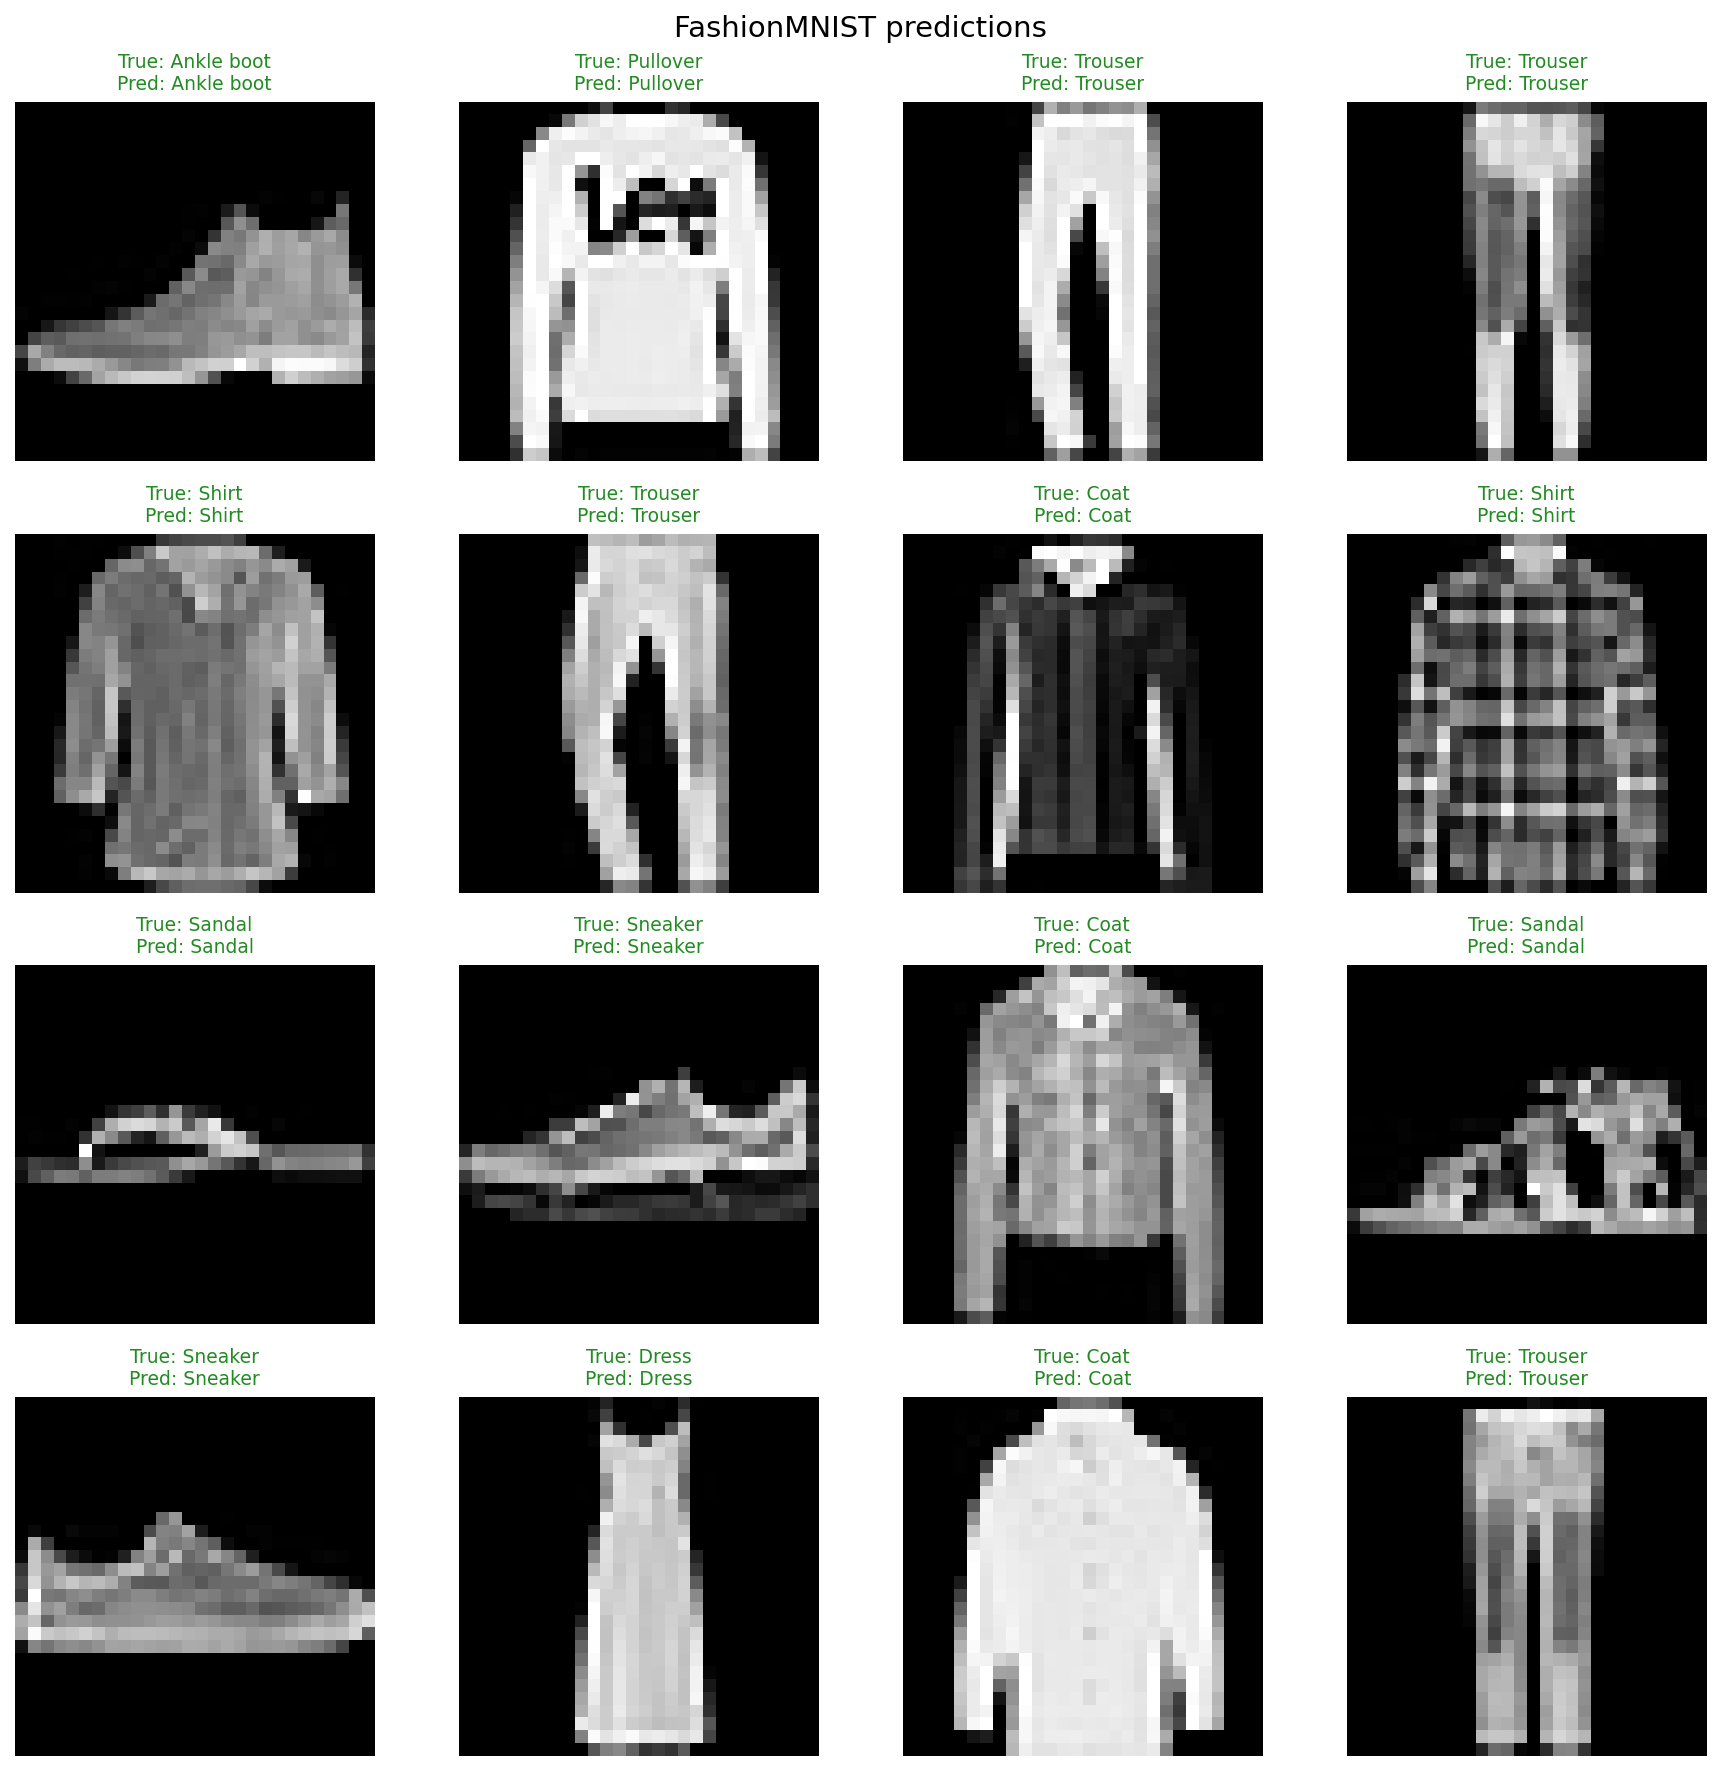
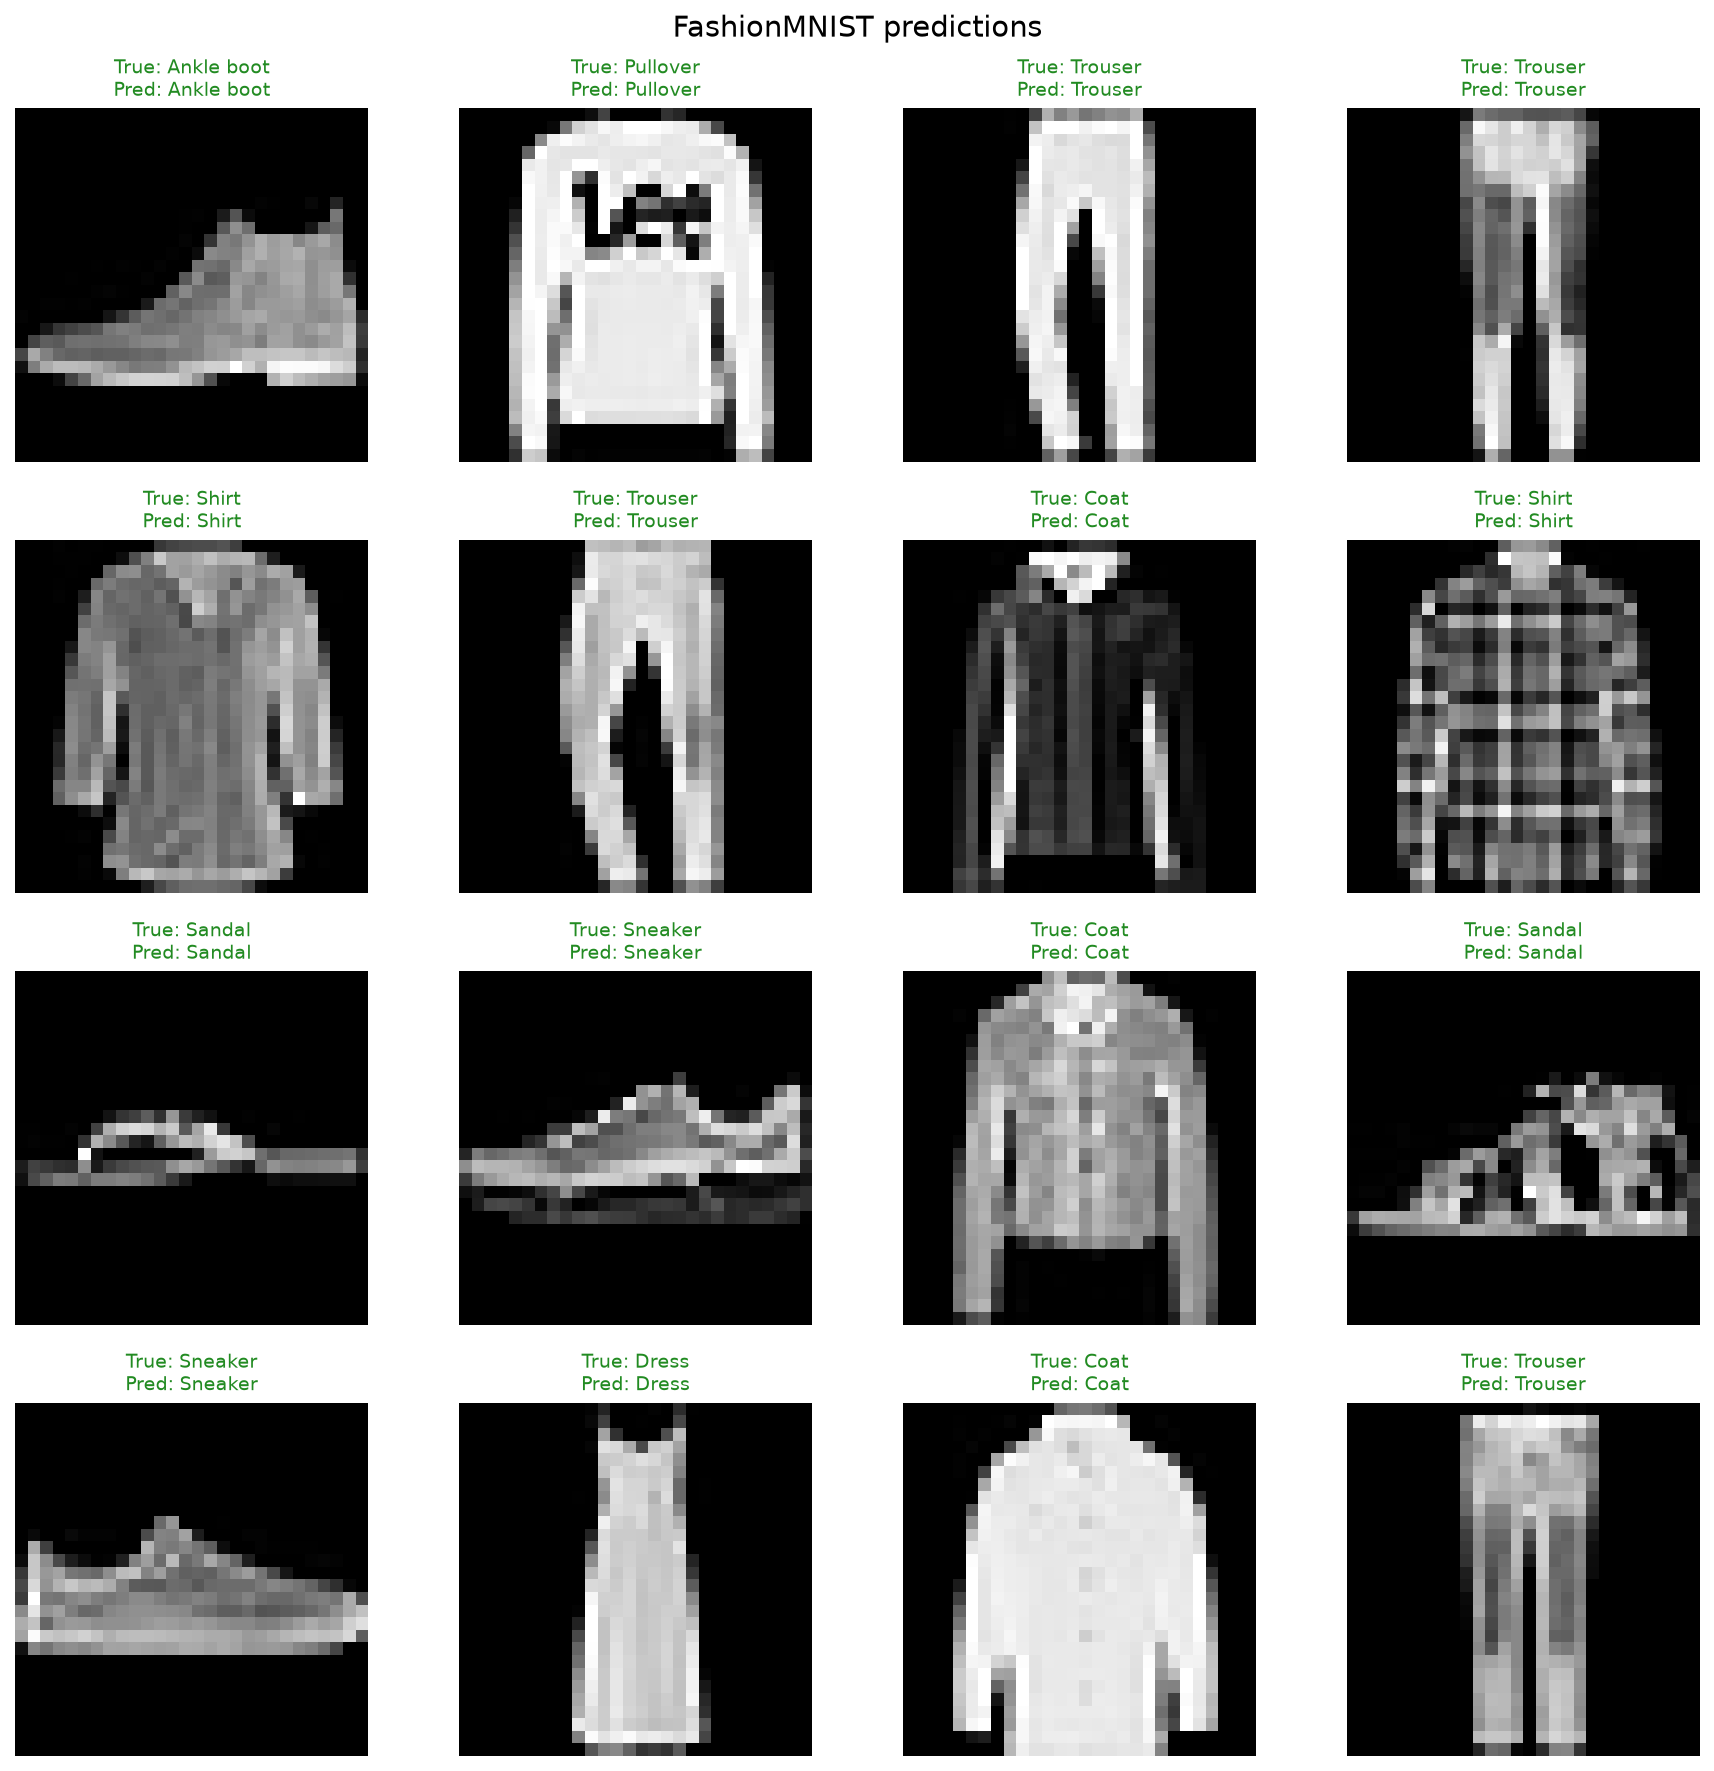
Add files via upload

diff --git a/results/reports/practice1_report.md b/results/reports/practice1_report.md
@@ -1,0 +1,60 @@
+# Báo cáo ngắn – Practice 1: PyTorch FashionMNIST Classification
+
+Thời gian thực hiện: 03/11/2026 – 11/11/2026. Mã nguồn và dữ liệu kết quả nằm trong repository `Practice_1`.
+
+## 1. Mục tiêu
+Xây dựng, huấn luyện và đánh giá mô hình mạng nơ-ron bằng PyTorch để phân loại ảnh FashionMNIST thành 10 lớp, theo bốn phần của đề bài: Learn (tìm hiểu), Implement (cài đặt), Tasks (thử nghiệm và trực quan hóa), Deliver (sản phẩm).
+
+## 2. Dữ liệu và tiền xử lý
+FashionMNIST có 60.000 ảnh train và 10.000 ảnh test, ảnh xám 28 × 28, 10 lớp cân bằng. Ảnh được đổi sang tensor (`ToTensor`) rồi chuẩn hóa về [-1, 1] (`Normalize((0.5,), (0.5,))`); train và test dùng cùng phép biến đổi. Khi tinh chỉnh hyperparameters, 10% tập train (6.000 ảnh) được tách làm validation; tập test chỉ dùng để đánh giá cuối.
+
+## 3. Mô hình và huấn luyện
+
+| Mô hình | Cấu trúc | Tham số |
+|---|---|---|
+| MLP | Flatten → Linear 256 → Linear 128 → Linear 10 (ReLU) | 235.146 |
+| CNN | 2 × (Conv 3×3 + ReLU + MaxPool) → Linear 128 → Dropout → Linear 10 | 421.642 |
+| DeepCNN | 3 × (Conv 3×3 + ReLU + MaxPool) → Linear 128 → Dropout → Linear 10 | 241.546 |
+
+Huấn luyện bằng `CrossEntropyLoss` trên logits, optimizer Adam (learning rate 1e-3), batch size 64, seed 42, trên CPU. Mỗi batch: Forward → Loss → Backward → Optimize. Mô hình được lưu bằng `state_dict` và tải lại bằng `weights_only=True`; accuracy sau khi tải khớp với trước khi lưu.
+
+## 4. Kết quả
+
+**Mô hình chính** (CNN, 10 epoch, notebook 02): accuracy test **91,93%**, test loss 0,2524, train accuracy 95,60%. Test loss thấp nhất ở epoch 7 rồi tăng nhẹ, cho thấy overfitting bắt đầu từ khoảng epoch 7.
+
+**So sánh kiến trúc** (5 epoch, cùng điều kiện):
+
+| Mô hình | Test accuracy | Test loss | Thời gian |
+|---|---|---|---|
+| MLP | 87,90% | 0,3421 | 36 giây |
+| CNN | 91,00% | 0,2440 | 181 giây |
+| DeepCNN | 90,83% | 0,2470 | 230 giây |
+
+**Tinh chỉnh hyperparameters** (11 cấu hình, chọn theo validation accuracy):
+
+| Yếu tố | Giá trị thử → validation accuracy |
+|---|---|
+| Learning rate | 3e-4: 89,32%; 1e-3: 90,58%; 3e-3: 90,65% |
+| Batch size | 32: 90,58%; 64: 90,58%; 128: 90,18% |
+| Số epoch | 1: 87,87%; 3: 90,58%; 6: 91,60% |
+| Optimizer | Adam: 90,58%; SGD momentum: 89,75% |
+| Dropout | 0: 90,95%; 0,20: 90,83%; 0,25: 90,58%; 0,50: 90,03% |
+
+Cấu hình tốt nhất theo validation là CNN, Adam, lr 1e-3, batch 64, 6 epoch: **90,93% accuracy test** khi đánh giá một lần.
+
+**Theo lớp:** Trouser, Bag, Sandal gần như hoàn hảo (F1 > 0,98); Shirt khó nhất (F1 0,7605), thường bị nhầm với T-shirt/top, Pullover và Coat.
+
+## 5. Hình và bảng
+- Biểu đồ loss: `results/figures/training_history_real.png`, `results/figures/tune-*_history.png`.
+- Ảnh dự đoán so với nhãn thật: `results/figures/best_tuned_predictions.png`; bảng đầy đủ 10.000 dự đoán: `data/output/predictions/best_tuned_predictions.csv`.
+- So sánh hyperparameters: `results/figures/hyperparameter_comparison.png`.
+- Bảng số liệu: `results/tables/` (`model_comparison.csv`, `hyperparameter_results.csv`, `class_report.csv`, `training_history.csv`).
+
+## 6. Kiểm thử
+34 test tự động (`pytest -q`) đều PASS; 24/24 ca kiểm thử trong `docs/05_testing/test_cases.md` PASS. Chi tiết ở `docs/05_testing/test_report.md`.
+
+## 7. Kết luận và hạn chế
+CNN vượt MLP khoảng 3 điểm phần trăm; thêm lớp tích chập thứ ba không cải thiện rõ rệt. Số epoch và learning rate ảnh hưởng mạnh nhất ở giai đoạn đầu, còn batch size, optimizer và dropout ảnh hưởng nhỏ. Hạn chế: mỗi cấu hình chỉ chạy một lần với một seed, các thử nghiệm hyperparameters chỉ 3 epoch, và cấu hình tốt nhất thắng chủ yếu nhờ nhiều epoch hơn. Chi tiết ở `docs/06_results/experiment_results.md` và `docs/06_results/conclusion.md`.
+
+## 8. Tài liệu tham khảo
+PyTorch Tutorials: https://pytorch.org/tutorials/ ; PyTorch Docs: https://pytorch.org/docs/ ; Xiao, Rasul, Vollgraf (2017), Fashion-MNIST: https://arxiv.org/abs/1708.07747
